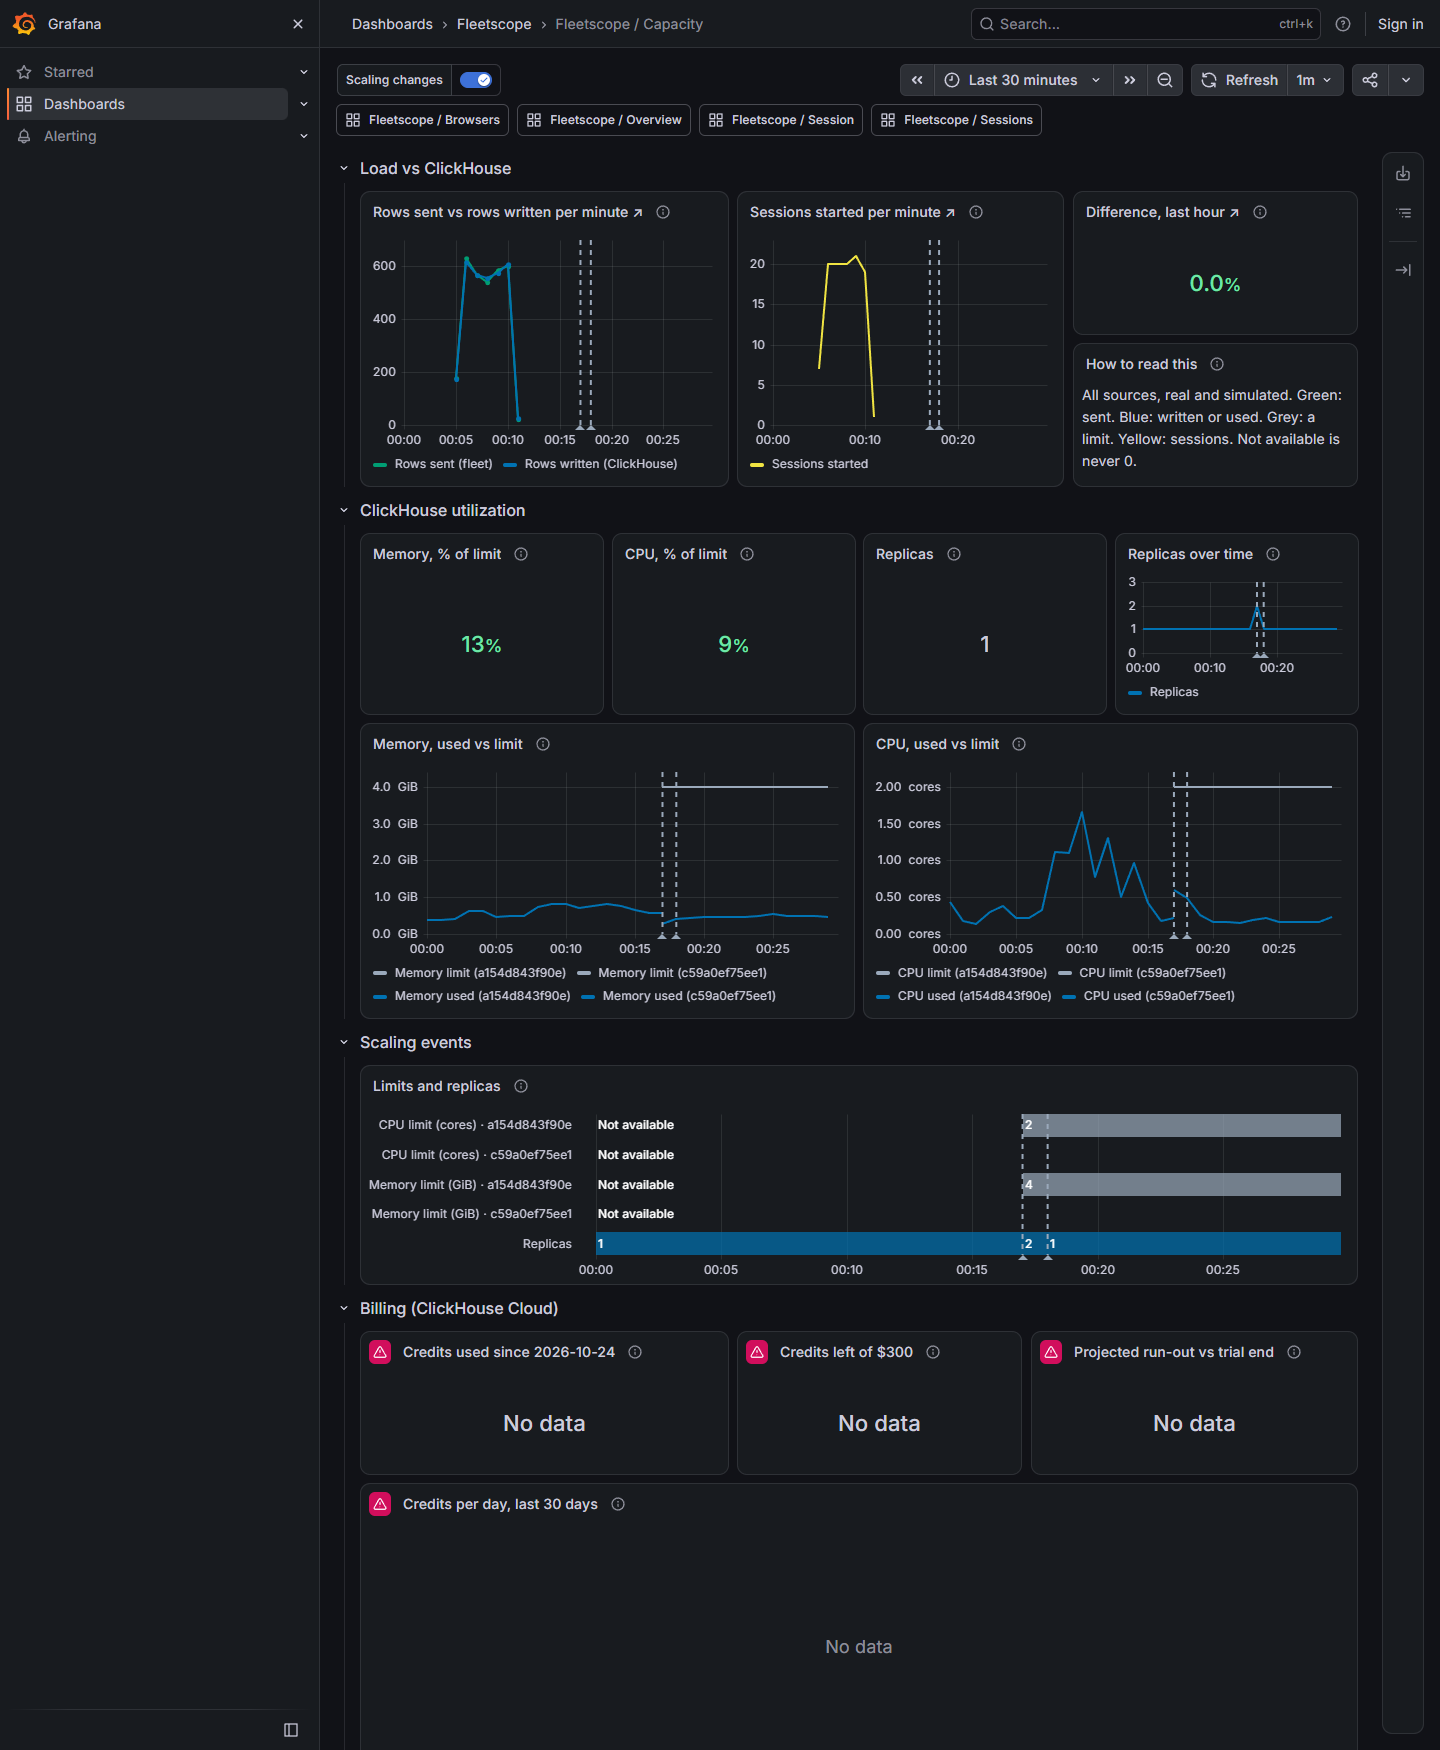
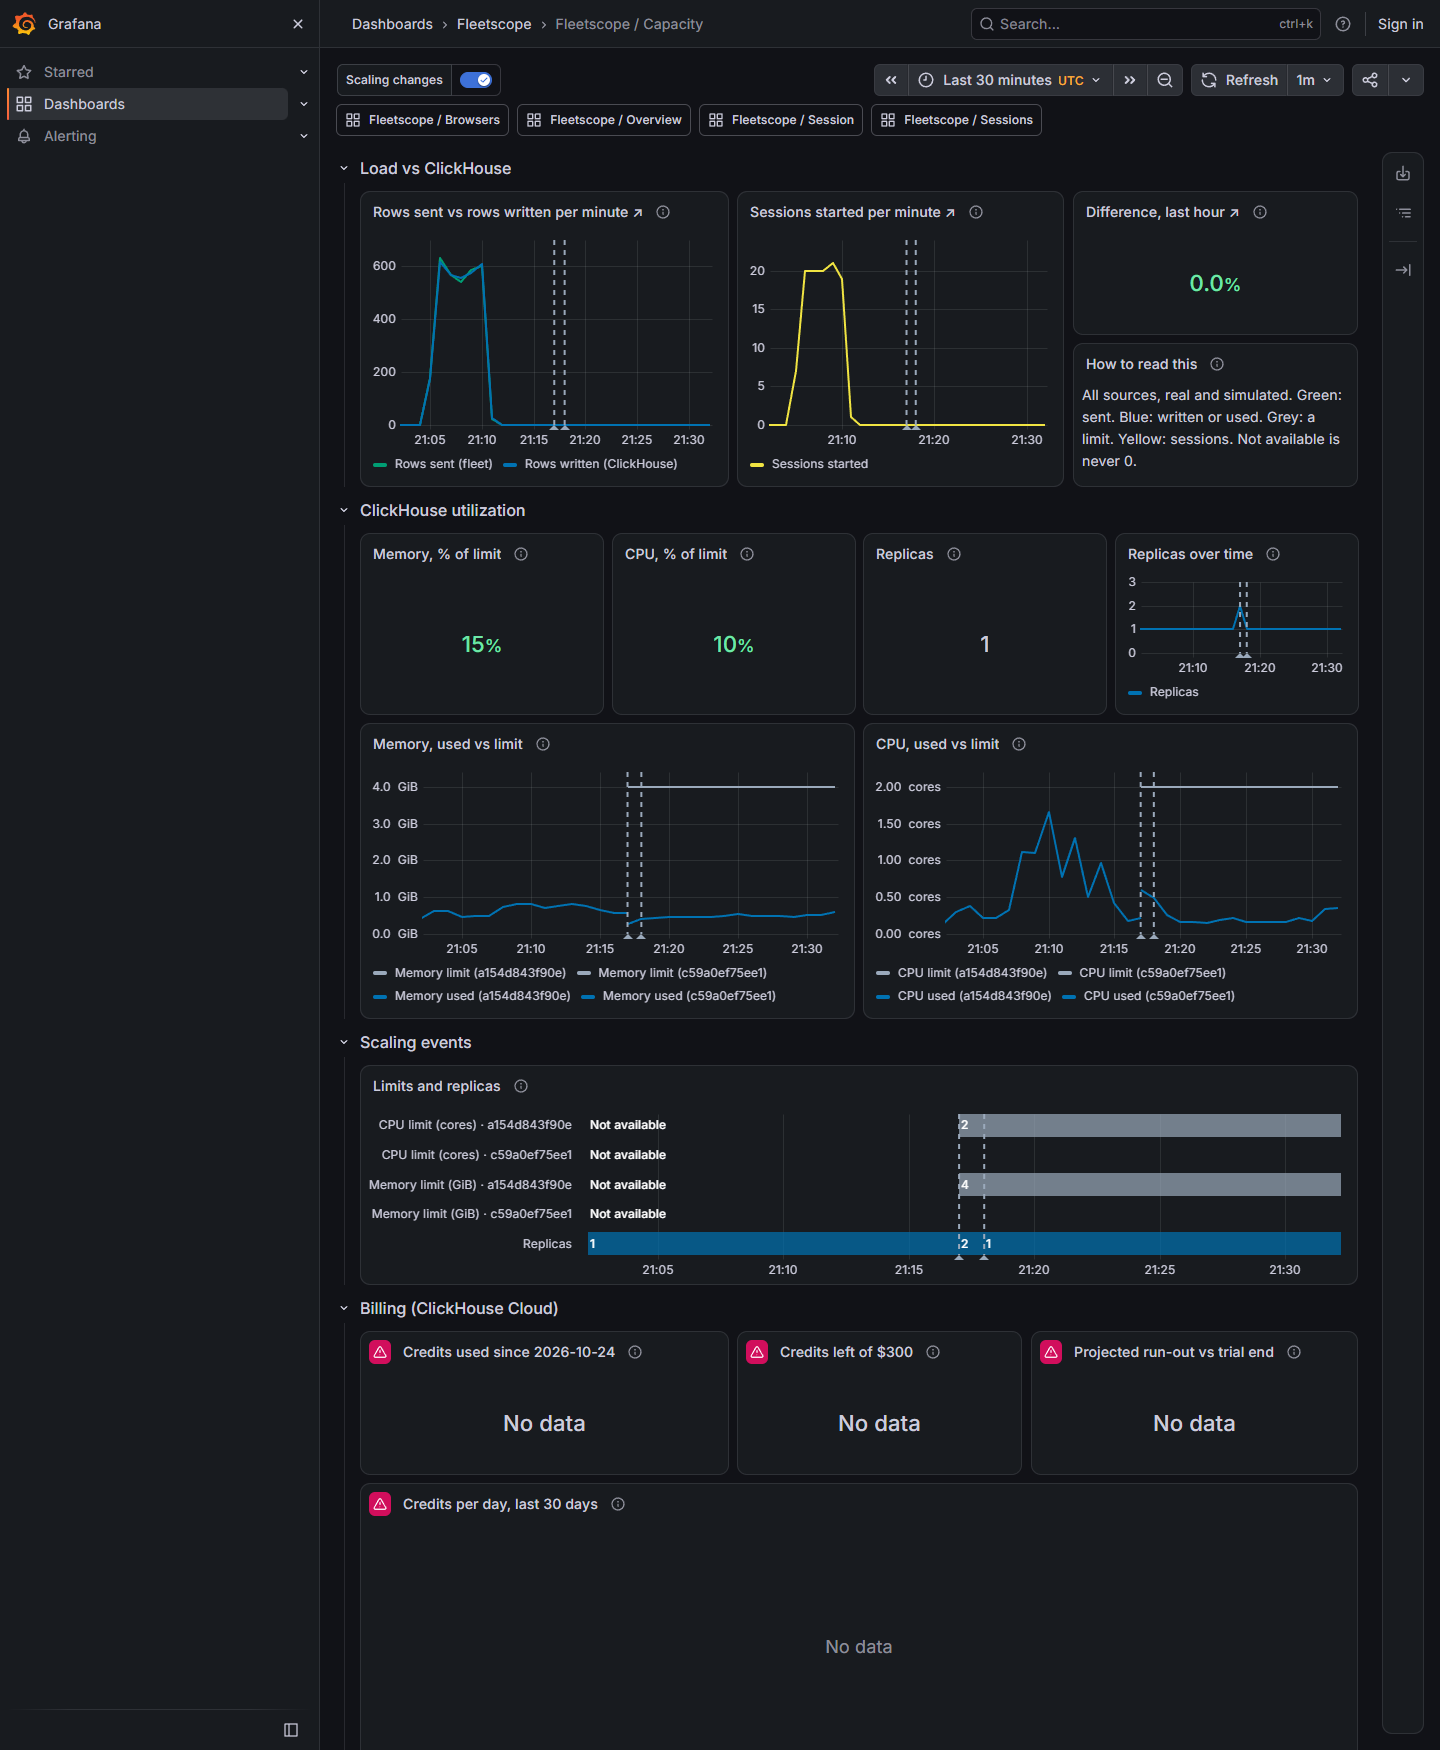
feat(grafana): Capacity dashboard in UTC; DESIGN.md notes the annotation marker exception
Billing days are UTC, so the dashboard is too (said in its description).

diff --git a/design/DESIGN.md b/design/DESIGN.md
@@ -98,7 +98,7 @@ Other colours (dark / light): gauge cells in tables use the approved neutral `--
 
 ### 4.1 Shared settings
 
-- **Navigation:** tag all three dashboards `fleetscope`. Add dashboard links by tag that keep the time range and the variables. Set `graphTooltip: 1` (shared crosshair) and timezone browser.
+- **Navigation:** tag all three dashboards `fleetscope`. Add dashboard links by tag that keep the time range and the variables. Set `graphTooltip: 1` (shared crosshair) and timezone browser (Capacity is UTC, see 4.5).
 - **Time series:** line width 2, `spanNulls: false`, fill 0 (15 on session charts), points `auto` (Grafana draws a point only where a line can't, so a single sparse bucket stays visible; always, size 4, on session charts), legend as a list at the bottom, tooltip with all series sorted descending, min interval 1m.
 - **Stats:** graph mode none (no sparklines), text mode value, KPI value size 22. Verdicts use auto size, so they are the largest text on the page. A string stat needs Value options > Fields set to its column, because "Numeric fields" hides strings.
 - **Descriptions:** every panel has a one-sentence description with its definition from section 3. People see it under (i), and Grafana Assistant can read it.
@@ -229,6 +229,7 @@ Is ClickHouse keeping up with the fleet, and how close is it to its limits? Rang
 - **Honest data.** The load numbers come from `system.part_log` (rows ClickHouse wrote) and the fleet's own tables (rows sent), and cover **all sources**: this dashboard has no `source` or `engine` filter, because ClickHouse does not know them (a documented exception to the rule in `packages/db/README.md`; the text panel says so). A stat with nothing to divide prints `—`. A limit the server does not report (a local container has none) is NULL: a gap in the charts, `Not available` in the stats and the state timeline, never 0. Idle minutes have no row, and the charts break the line there (`insertNulls`) instead of joining the neighbours.
 - **Billing needs the API key.** Without the `clickhouse-cloud-api` data source (local, CI) the four billing panels show no data, and their descriptions say so. They are the only panels on another data source. The three stats read the API with the backend (JSONata) parser, so credits left and the run-out date are computed in the query, not in a transformation.
 - **Thresholds on this dashboard** are targets, so besides success rate they are the only places that use status colours: Difference (1% / 5%), Memory % and CPU % (70% / 85%), run-out.
+- **Time zone and annotations.** This dashboard is UTC (`timezone: utc`), because ClickHouse Cloud bills by UTC day; its description says so. The dashed vertical lines of the Scaling changes annotation are Grafana's own marker style and can't be changed: the one exception to "every line is solid".
 - **Links.** The load panels link to Sessions with the same range; utilization and billing are not made of sessions and have no link. Dashboard links by tag, as on the others.
 
 ## 5. Perfetto timeline
